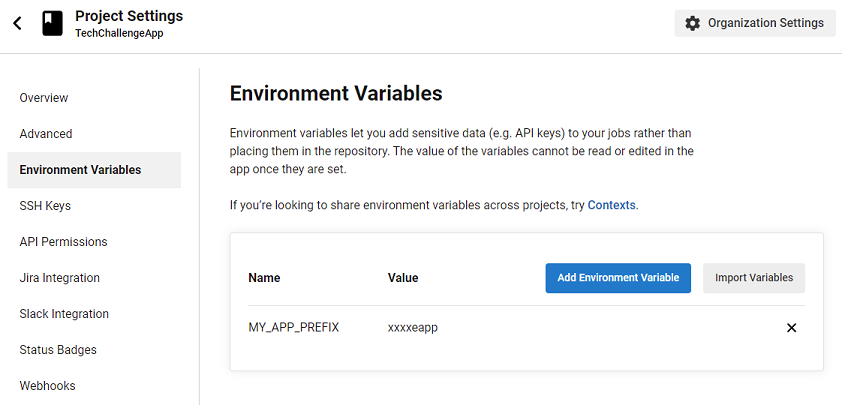
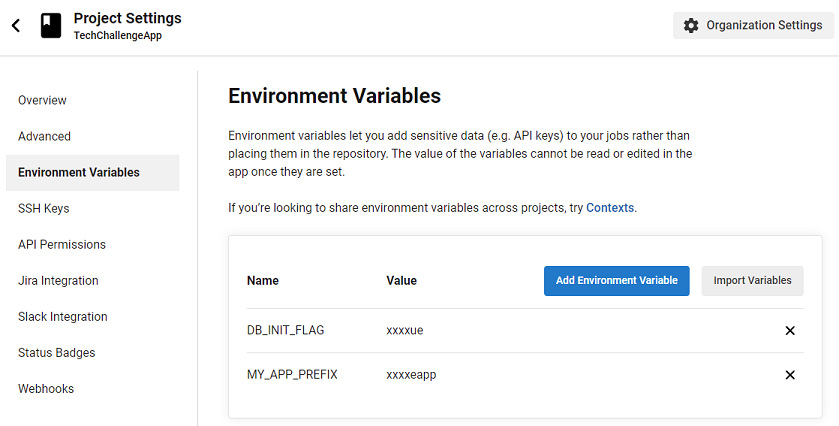
test dbinit flag

diff --git a/assignment/readme.md b/assignment/readme.md
@@ -136,7 +136,9 @@ CloudFormation templates: [../cfn/](../cfn/)
 
 3. Create Project Environment Variables
     - Name: `MY_APP_PREFIX`
-    - Value: `techchallengeapp`
+        - Value: `techchallengeapp`
+    - Name: `DB_INIT_FLAG`
+        - Value: `true`
 
     ![circleci-project-env](images/circleci-project-env.png)
 
@@ -156,15 +158,13 @@ CloudFormation templates: [../cfn/](../cfn/)
 
     Todo: The default region in URL is marked by circleci automatically. Will create a URL for convenientce in later version.
 
-3.  Change the default parameter 'DBTableInit' from `true` to `false` in [../cfn/service-cluster-alb.yaml](../cfn/service-cluster-alb.yaml)
+3.  Change the project environment variable 'DB_INIT_FLAG' from `true` to `false` in CircleCI portal.
 
-    ![dbinit-setup](images/dbinit-setup-false.png)
+    ![db-init-flag-false](images/dbinit-setup-false.png)
 
-    And submit the changes to GitHub repo. 
+    And next run, the pipeline will update the flag in CloudFormation stack.
 
-    It will trigger the pipeline deploy the new changes to cloud again. 
-
-    So that the appdata will not be removed by the DB init task that created in the first run.
+    So that the existing appdata will not be removed by the new deployment.
 
 ### Verification
 
